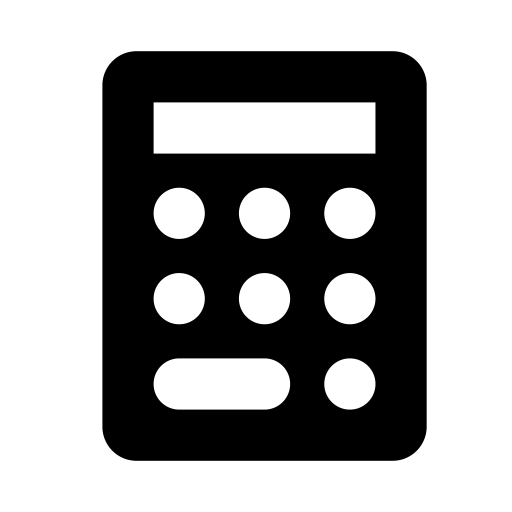
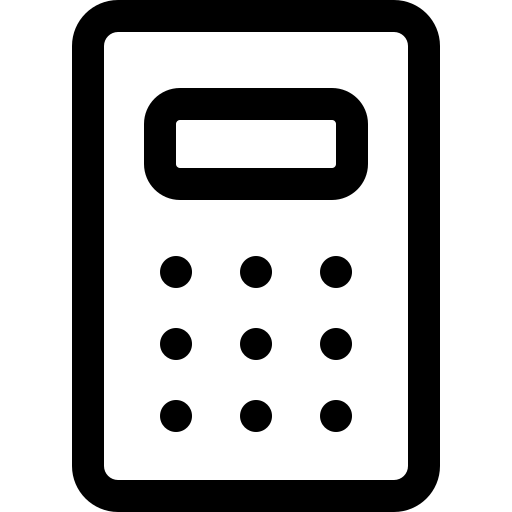
Change assets and highlight hashtag

diff --git a/mobile/src/screens/ProductInfo.js b/mobile/src/screens/ProductInfo.js
@@ -155,6 +155,7 @@ const ProductInfo = ({route, navigation}) => {
   };
 
   const renderHashtag = (hashtag, index) => {
+    console.log(hashtag);
     return (
       <View
         style={{
@@ -168,14 +169,14 @@ const ProductInfo = ({route, navigation}) => {
           borderRadius: 7,
         }}
         key={index}>
-        <Text>{hashtag}</Text>
+        <Text>{hashtag.name}</Text>
       </View>
     );
   };
 
   const renderHashtags = () => {
     return params.hashtags.map((hashtag, index) => {
-      return renderHashtag(hashtag.name, index);
+      return renderHashtag(hashtag, index);
     });
   };
 

diff --git a/mobile/src/screens/BarcodeScanner.js b/mobile/src/screens/BarcodeScanner.js
@@ -87,10 +87,10 @@ const BarcodeScanner = ({navigation}) => {
           source={scanBarcode}
           style={{
             position: 'absolute',
-            height: (windowWidth / 8) * 9,
-            width: (windowWidth / 8) * 9,
+            height: (windowWidth / 8) * 7,
+            width: (windowWidth / 8) * 7,
             tintColor: 'white',
-            bottom: windowHeight / 2 - ((windowWidth / 8) * 7) / 2 - 70,
+            bottom: windowHeight / 2 - ((windowWidth / 8) * 7) / 2 - 30,
           }}
         />
       </RNCamera>
